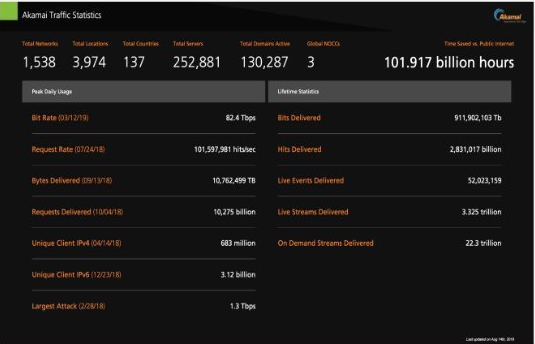
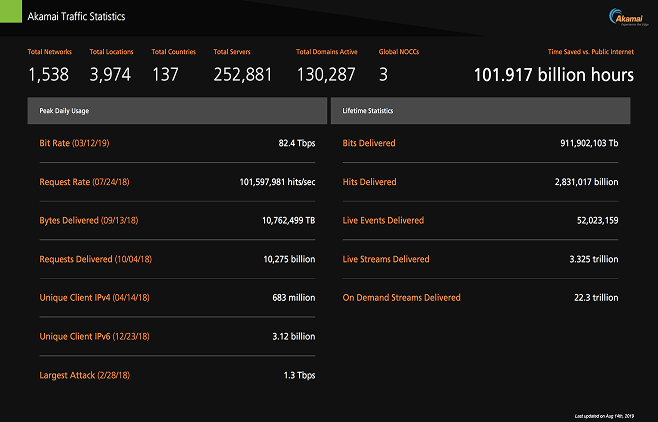
Portfolio: sharper Virgin Pulse API docs and Akamai traffic images
Claude-Session: https://claude.ai/code/session_01ADycTHMtd6ekjSmkxt8USj

diff --git a/portfolio/index.html b/portfolio/index.html
@@ -276,7 +276,7 @@
         <figcaption>Rewards for Steps prototype, 2022.</figcaption>
       </figure>
       <figure class="four">
-        <div class="mat light"><img src="img/vp-partner-api.png" width="376" height="546" alt="Partner API documentation page prototype with a navigation column, explanatory text in the middle, and example JSON responses in a dark code panel."></div>
+        <div class="mat light"><img src="img/vp-partner-api.png" width="458" height="671" alt="Partner API documentation page prototype with a navigation column, explanatory text in the middle, and example JSON responses in a dark code panel."></div>
         <figcaption>Partner API documentation prototype, 2022.</figcaption>
       </figure>
     </div>
@@ -300,7 +300,7 @@
     </div>
     <div class="table">
       <figure>
-        <div class="mat"><img src="img/akamai-traffic.png" width="535" height="344" alt="Akamai Traffic Statistics dashboard in black and orange, with totals for networks, locations, and servers and tables of peak and lifetime usage."></div>
+        <div class="mat"><img src="img/akamai-traffic.png" width="658" height="422" alt="Akamai Traffic Statistics dashboard in black and orange, with totals for networks, locations, and servers and tables of peak and lifetime usage."></div>
         <figcaption>Akamai traffic statistics, 2019.</figcaption>
       </figure>
       <figure class="two">
